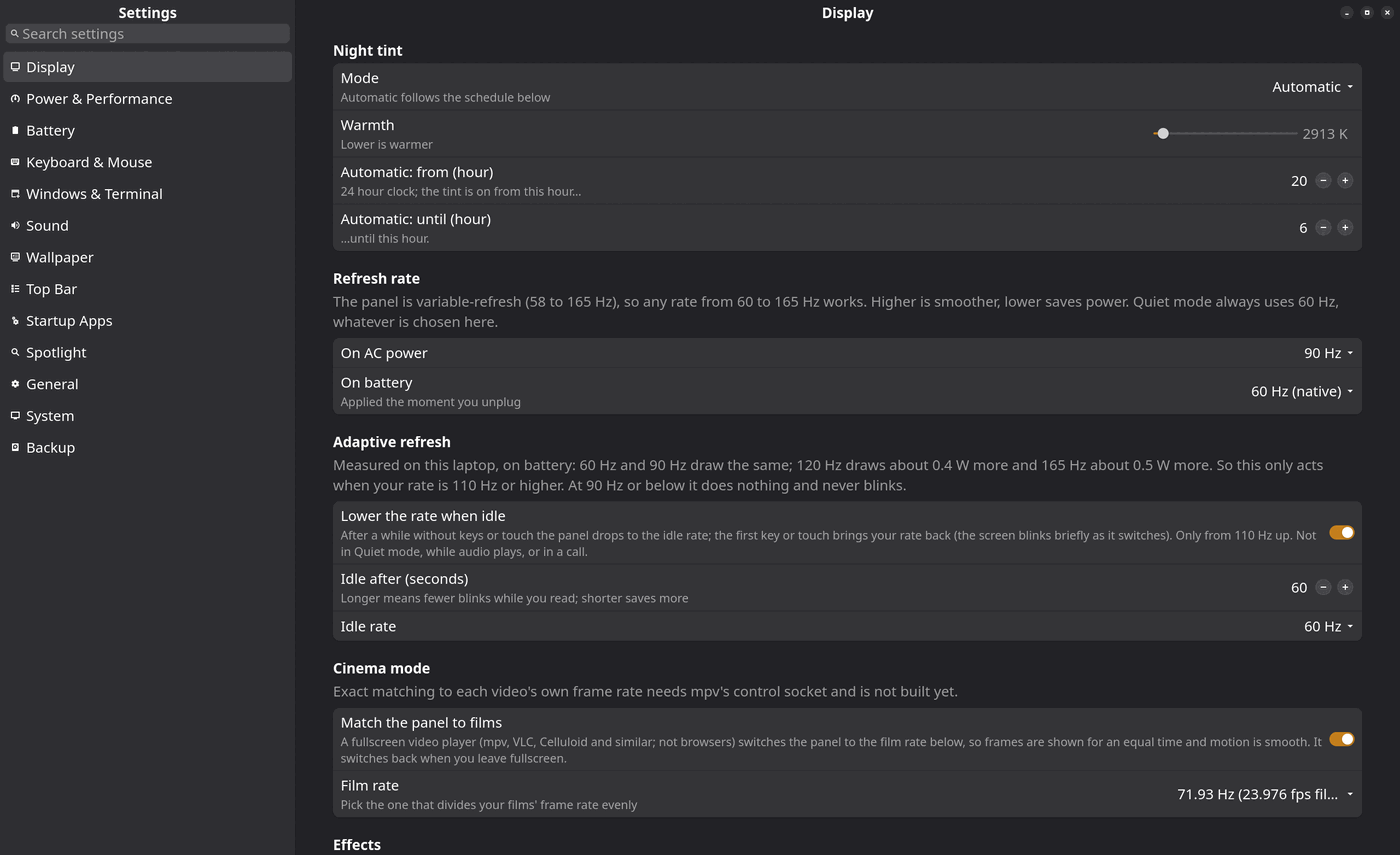
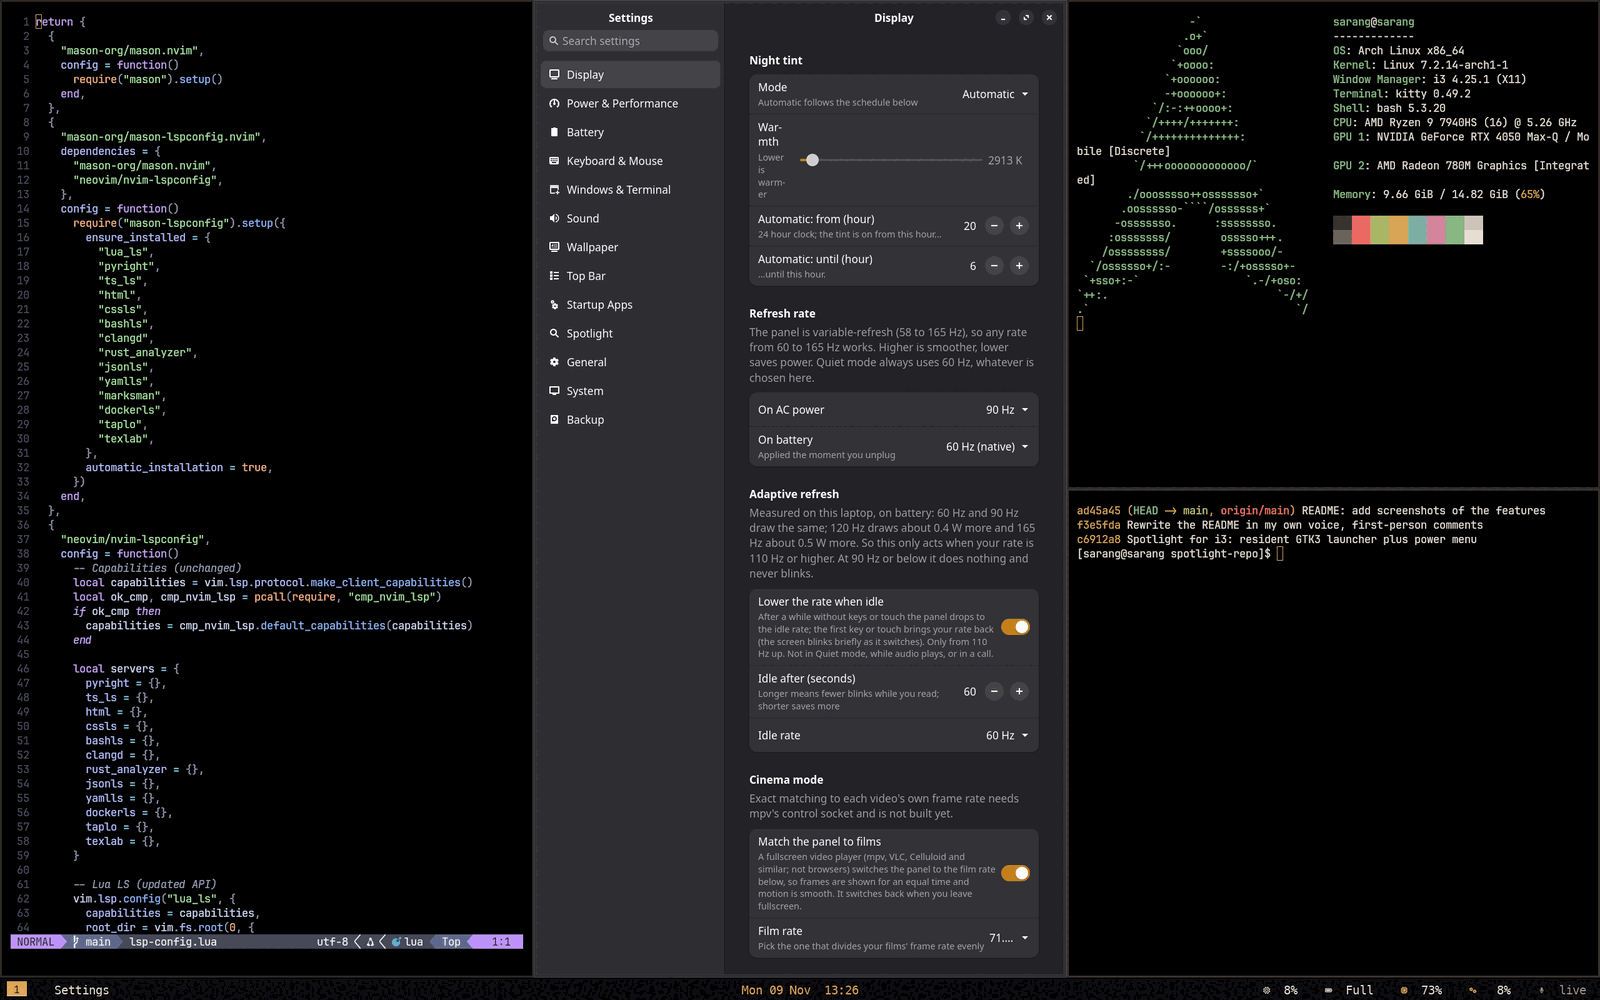
README: full-screen screenshots and a demo recording

diff --git a/README.md b/README.md
@@ -5,13 +5,28 @@ My desktop, lovingly over-engineered. This is the i3 setup I live in on an **ASU
 It started as "I'll just tidy the config a bit" and then I kept going. You have been warned.
 
 ## What it looks like
-![My desktop: kitty and Neovim tiled over the blurred wallpaper](docs/img/desktop.png)
-*Tiled kitty and Neovim on the amber-and-dusk look, with the bar along the bottom (cropped out here, because it knows my Wi-Fi name).*
+![A short screen recording: Spotlight finds apps, does maths, shows emoji, previews files, then the layout flips between tabbed and stacked](docs/img/demo.gif)
+*About a minute of me poking at everything. Spotlight first, then the i3 layouts and the Settings app.*
 
-| My Settings app | My Spotlight |
+Every shot here was taken on a throwaway virtual screen running the same configs, so none of my real windows (or my Wi-Fi name) sneak into the pictures.
+
+![My desktop: Neovim on the left, fastfetch and a git log tiled on the right, bar along the bottom](docs/img/desktop.png)
+*The everyday layout: tiled, keyboard-driven, and the bar stays out of the way at the bottom.*
+
+| Tabbed (`Super+W`) | Stacked (`Super+S`) |
 |---|---|
-| ![The GTK4 Settings app on the Display page](docs/img/settings.png) | ![Spotlight searching for "kitty"](docs/img/spotlight.png) |
-| One window for display, power, input, sound, wallpaper, the bar and backups. It writes `rog/settings.env`, so I never have to. | Apps, open windows and files in one box. It opens in about 20 ms. |
+| ![Two terminals as tabs in one tile](docs/img/tabbed.png) | ![Two terminals stacked with title bars](docs/img/stacking.png) |
+
+| My Settings app | The power menu (`Super+Escape`) |
+|---|---|
+| ![Settings opens tiled like any other window](docs/img/settings.png) | ![Lock, log out, sleep, hibernate, restart, shut down as a row of tiles](docs/img/power.png) |
+| One window for display, power, input, sound, wallpaper, the bar and backups. It opens tiled like everything else. | Destructive buttons need a second Enter, so I cannot nuke my session by accident. |
+
+![The lock screen: blurred wallpaper, big thin clock, a round ring with my name](docs/img/lock.png)
+*The lock screen. Blurred wallpaper, a big thin clock, a round ring with my name on it.*
+
+![Spotlight on the desktop, searching for settings](docs/img/spotlight.png)
+*My Spotlight on top of all that. Its own repo has the full tour: [sarang-kernel/spotlight](https://github.com/sarang-kernel/spotlight).*
 
 ## What's in here
 | Folder | What it is |
